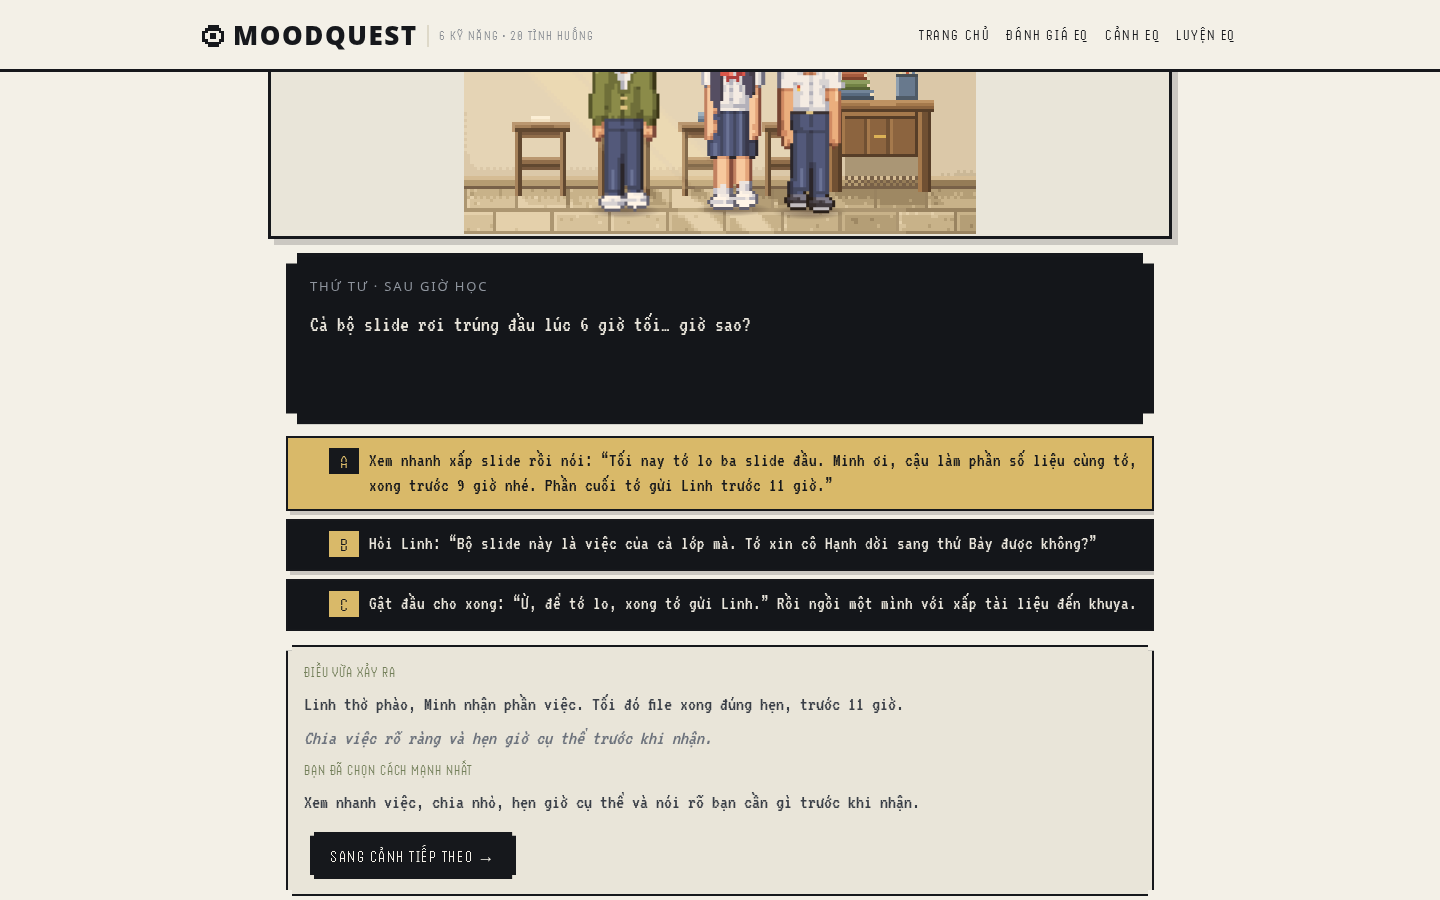
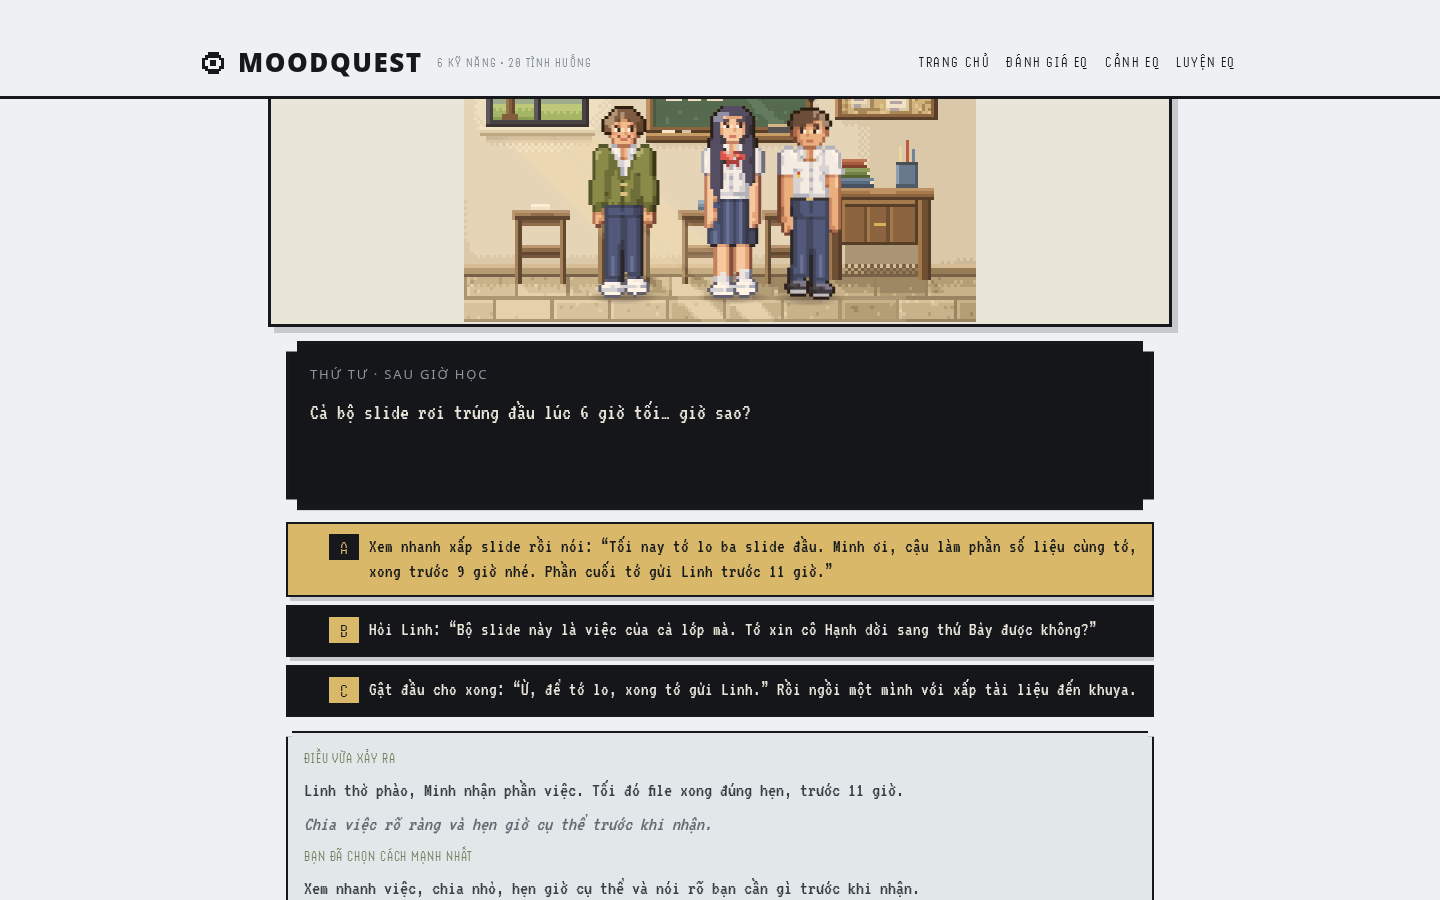
Pages: quieter landing and result styling

diff --git a/public/css/app.css b/public/css/app.css
@@ -57,7 +57,7 @@
 .brand {
   display: flex;
   align-items: center;
-  gap: 9px;
+  gap: 14px;
   text-decoration: none;
   color: var(--ink);
 }
@@ -80,8 +80,6 @@
   letter-spacing: 0.1em;
   text-transform: uppercase;
   color: var(--ink-3);
-  border-left: 2px solid var(--paper-3);
-  padding-left: 10px;
 }
 
 .topbar__spacer {
@@ -120,10 +118,6 @@
   grid-template-columns: minmax(0, 1.12fr) minmax(0, 0.88fr);
   gap: var(--gap-7);
   align-items: center;
-}
-
-.hero__eyebrow {
-  margin-bottom: var(--gap-4);
 }
 
 .hero__title {
@@ -258,7 +252,7 @@
 .band__lead {
   max-width: 60ch;
   margin-bottom: var(--gap-6);
-  color: rgba(243, 240, 231, 0.78);
+  color: color-mix(in srgb, var(--paper) 78%, transparent);
 }
 
 .band--soft .band__lead {
@@ -271,9 +265,20 @@
   gap: var(--gap-4);
 }
 
+/* Mỗi mục là một cột của sổ: nét kẻ ngang phía trên, không phải vệt màu bên
+   trái. Vệt border-left là dấu hiệu rõ nhất của giao diện dựng tự động. */
 .ledger__item {
-  border-left: 4px solid var(--amber);
-  padding: 2px 0 2px 16px;
+  border-top: 3px solid var(--paper-3);
+  padding-top: var(--gap-3);
+}
+
+/* Trên dải mực tối, nét kẻ phải lấy từ màu giấy. */
+.band .ledger__item {
+  border-top-color: color-mix(in srgb, var(--paper) 26%, transparent);
+}
+
+.band--soft .ledger__item {
+  border-top-color: var(--paper-3);
 }
 
 .ledger__k {
@@ -289,7 +294,7 @@
   font-family: var(--font-term);
   font-size: 19px;
   line-height: 1.4;
-  color: rgba(243, 240, 231, 0.82);
+  color: color-mix(in srgb, var(--paper) 82%, transparent);
 }
 
 .formula {
@@ -405,7 +410,7 @@
 /* ---------------------------------------------------------------- footer */
 .foot {
   background: var(--ink);
-  color: rgba(243, 240, 231, 0.72);
+  color: color-mix(in srgb, var(--paper) 72%, transparent);
   padding: var(--gap-6) 0;
   margin-top: var(--gap-7);
 }
@@ -425,7 +430,7 @@
 .foot a {
   color: var(--paper);
   text-decoration: none;
-  border-bottom: 2px solid rgba(243, 240, 231, 0.3);
+  border-bottom: 2px solid color-mix(in srgb, var(--paper) 30%, transparent);
 }
 
 .foot a:hover {
@@ -730,7 +735,7 @@
 .peek__board .choice:hover,
 .peek__board .choice.is-active {
   cursor: default;
-  background: rgba(243, 240, 231, 0.04);
+  background: color-mix(in srgb, var(--paper) 4%, transparent);
   color: var(--console-text);
 }
 

diff --git a/public/css/result.css b/public/css/result.css
@@ -68,18 +68,6 @@
   min-width: 0;
 }
 
-/* Nhãn nhỏ phía trên tiêu đề. Chỉ áp trong .verdict: ở trang chủ lớp này còn
-   được dùng làm khung chip, đổi cỡ chữ ở đó sẽ làm chip méo. */
-.verdict .hero__eyebrow {
-  font-family: var(--font-pixel);
-  font-weight: 600;
-  font-size: 15px;
-  letter-spacing: 0.16em;
-  text-transform: uppercase;
-  color: var(--olive);
-  margin-bottom: var(--gap-3);
-}
-
 .verdict__name {
   font-family: var(--font-pixel);
   font-weight: 700;
@@ -111,8 +99,8 @@
   align-items: baseline;
   column-gap: var(--gap-2);
   row-gap: var(--gap-4);
-  border-left: 3px solid var(--paper-3);
-  padding-left: var(--gap-5);
+  border-top: 3px solid var(--paper-3);
+  padding-top: var(--gap-4);
 }
 
 .verdict__score {
@@ -197,8 +185,8 @@
   font-size: 15.5px;
   line-height: 1.65;
   color: var(--ink-2);
-  border-left: 3px solid var(--amber);
-  padding-left: var(--gap-3);
+  border-top: 2px solid var(--paper-3);
+  padding-top: var(--gap-2);
 }
 
 .pair__cta {
@@ -221,14 +209,17 @@
 .dim {
   background: transparent;
   border-bottom: 3px solid var(--paper-3);
-  border-left: 4px solid transparent;
 }
 
-/* Dấu hiệu "đang mở" không hét to: một vệt hổ phách bên trái + nền giấy sáng
-   hơn nền dải một chút. */
+/* Dấu hiệu "đang mở" không hét to: nền giấy sáng hơn nền dải một chút, mã kỹ
+   năng đổi sang ô hổ phách, và dấu + đã xoay. Không dùng vệt màu bên trái. */
 .dim[open] {
   background: var(--paper);
-  border-left-color: var(--amber);
+}
+
+.dim[open] .dim__code {
+  background: var(--amber);
+  color: var(--ink);
 }
 
 .dim__head {
@@ -441,8 +432,8 @@
   font-size: 15px;
   line-height: 1.6;
   color: var(--ink-3);
-  border-left: 3px solid var(--amber);
-  padding-left: var(--gap-3);
+  border-top: 2px solid var(--paper-3);
+  padding-top: var(--gap-2);
 }
 
 /* ------------------------------------------------------------ cách chấm --- */
@@ -681,7 +672,7 @@
   gap: 4px;
   padding: var(--gap-3);
   background: var(--paper-2);
-  border-left: 3px solid var(--amber);
+  border: 2px solid var(--paper-3);
   font-family: var(--font-text);
   font-size: 15px;
   line-height: 1.55;

diff --git a/public/css/tokens.css b/public/css/tokens.css
@@ -1,16 +1,19 @@
 /* ============================================================================
    tokens.css — biến thiết kế, reset, typography nền
    Hướng: MODERN WEB × PIXEL GAME. Bảng màu tiết chế, góc vuông, viền rõ.
+   Nền là trang VỞ Ô LY: giấy trắng lạnh, kẻ ô mờ. Không phải kem ấm —
+   màu kem là mặc định chung của giao diện do AI dựng, không phải màu của
+   một quyển vở học sinh.
    ========================================================================== */
 
 :root {
-  /* --- giấy & mực --- */
-  --paper: #f3f0e7;
-  --paper-2: #e9e5d9;
-  --paper-3: #ded9c9;
+  /* --- giấy vở & mực --- */
+  --paper: #eef1f3;
+  --paper-2: #e2e7ea;
+  --paper-3: #ccd4da;
   --ink: #16181c;
   --ink-2: #3a3f47;
-  --ink-3: #6c727c;
+  --ink-3: #646a74;
 
   /* --- màu nhấn --- */
   --olive: #4f6033;
@@ -24,7 +27,7 @@
   /* --- bảng điều khiển hội thoại --- */
   --console-bg: #14161a;
   --console-bg-2: #1c1f25;
-  --console-line: #f3f0e7;
+  --console-line: var(--paper);
   --console-dim: #8f959e;
   --console-text: #eae6dc;
 
@@ -72,7 +75,7 @@ body {
   /* Chân trang luôn nằm ở đáy khung nhìn, kể cả khi nội dung ngắn (màn câu hỏi). */
   display: flex;
   flex-direction: column;
-  background: var(--paper);
+  background-color: var(--paper);
   color: var(--ink);
   font-family: var(--font-text);
   font-size: 16px;

diff --git a/public/css/pixel.css b/public/css/pixel.css
@@ -4,7 +4,11 @@
    Nhờ vậy góc bị "khoét" theo bậc 3–4px, đúng ngôn ngữ pixel, không bo tròn.
    ========================================================================== */
 
-.pxf {
+/* .btn dùng lại đúng hình học của .pxf. Nút được dựng bằng .btn + .pxf-in mà
+   không có .pxf, nên nếu để .btn tự lo hình học thì mọi nút trên trang đều mất
+   khung: không khoét góc, không viền mực, không bóng — chỉ còn một khối màu. */
+.pxf,
+.btn {
   --n-out: 8px;
   --bw: 3px;
   --frame: var(--ink);
@@ -52,12 +56,14 @@
   );
 }
 
-.pxf--lg {
+.pxf--lg,
+.btn--lg {
   --n-out: 11px;
   --bw: 4px;
   --sh: 9px;
 }
-.pxf--lg > .pxf-in {
+.pxf--lg > .pxf-in,
+.btn--lg > .pxf-in {
   --n: 7px;
 }
 
@@ -204,17 +210,8 @@
   transition: width 260ms steps(6, end);
 }
 
-.bar__fill::after {
-  content: "";
-  position: absolute;
-  inset: 0;
-  background-image: repeating-linear-gradient(
-    to right,
-    rgba(243, 240, 231, 0.16) 0 1px,
-    rgba(243, 240, 231, 0) 1px 6px
-  );
-  pointer-events: none;
-}
+/* Không có vệt sọc trang trí trên nhân thanh: viền mực 3px, nhịp steps() và
+   mũi hổ phách đã đủ chất pixel. Sọc lặp là dấu hiệu của giao diện dựng tự động. */
 
 .bar__edge {
   position: absolute;

diff --git a/public/css/quiz.css b/public/css/quiz.css
@@ -263,8 +263,8 @@
   min-height: 48px;
   padding: 10px 13px;
   text-align: left;
-  border: 2px solid rgba(243, 240, 231, 0.22);
-  background: rgba(243, 240, 231, 0.04);
+  border: 2px solid color-mix(in srgb, var(--paper) 22%, transparent);
+  background: color-mix(in srgb, var(--paper) 4%, transparent);
   color: var(--console-text);
   font-family: var(--font-term);
   font-size: 19px;
@@ -297,7 +297,7 @@
   font-size: 19px;
   line-height: 1.25;
   text-align: center;
-  background: rgba(243, 240, 231, 0.14);
+  background: color-mix(in srgb, var(--paper) 14%, transparent);
   padding: 2px 0 0;
 }
 
@@ -450,11 +450,13 @@
   font-size: clamp(30px, 5vw, 46px);
 }
 
+/* Ghi chú trong màn mở đầu: nét kẻ ngang, không vệt màu bên trái. Khối đã nằm
+   trong khung pixel nên không lồng thêm hộp. */
 .quiz-intro__note {
   display: grid;
   gap: 6px;
-  border-left: 4px solid var(--amber);
-  padding-left: 12px;
+  border-top: 2px solid var(--paper-3);
+  padding-top: var(--gap-3);
 }
 
 .quiz-intro__actions {

diff --git a/public/js/views/eqResult.js b/public/js/views/eqResult.js
@@ -96,7 +96,6 @@ export function renderEqResult(mount, { navigate }) {
       el(
         "div",
         { class: "verdict__body" },
-        el("p", { class: "hero__eyebrow", text: `HỒ SƠ SÁU KỸ NĂNG · LẦN ${all.length}` }),
         el("h1", { class: "verdict__name", text: "Bạn xử lý cảm xúc và các tình huống với người khác tới đâu" }),
         el("p", {
           class: "verdict__quote",
@@ -104,7 +103,7 @@ export function renderEqResult(mount, { navigate }) {
         }),
         el("p", {
           class: "verdict__meta",
-          text: `Đề ${current.form} · ${result.answered}/${result.total} tình huống · ${dateText(current.finishedAt)}`,
+          text: `Lần ${all.length} · Đề ${current.form} · ${result.answered}/${result.total} tình huống · ${dateText(current.finishedAt)}`,
         }),
       ),
       el(

diff --git a/public/css/scene.css b/public/css/scene.css
@@ -872,13 +872,15 @@
   font-size: 14px;
   color: var(--ink-2);
 }
+/* Mẹo: một hộp giấy viền cứng đúng ngôn ngữ pixel (như .skill, .pair__col),
+   không phải vệt màu bên trái kiểu hộp cảnh báo. */
 .story-skill__tip {
   margin: 4px 0 0;
   font-size: 14px;
   line-height: 1.45;
   background: var(--paper-2);
-  border-left: 4px solid var(--amber);
-  padding: 6px 10px;
+  border: 2px solid var(--paper-3);
+  padding: 7px 10px;
 }
 .story-delta {
   font-weight: 700;

diff --git a/public/js/views/landing.js b/public/js/views/landing.js
@@ -66,10 +66,6 @@ export function renderLanding(mount, { navigate }) {
       el(
         "div",
         {},
-        frame(el("span", { text: "LUYỆN EQ CHO HỌC SINH" }), {
-          size: "sm",
-          cls: "chip chip--olive hero__eyebrow",
-        }),
         el(
           "h1",
           { class: "hero__title" },
